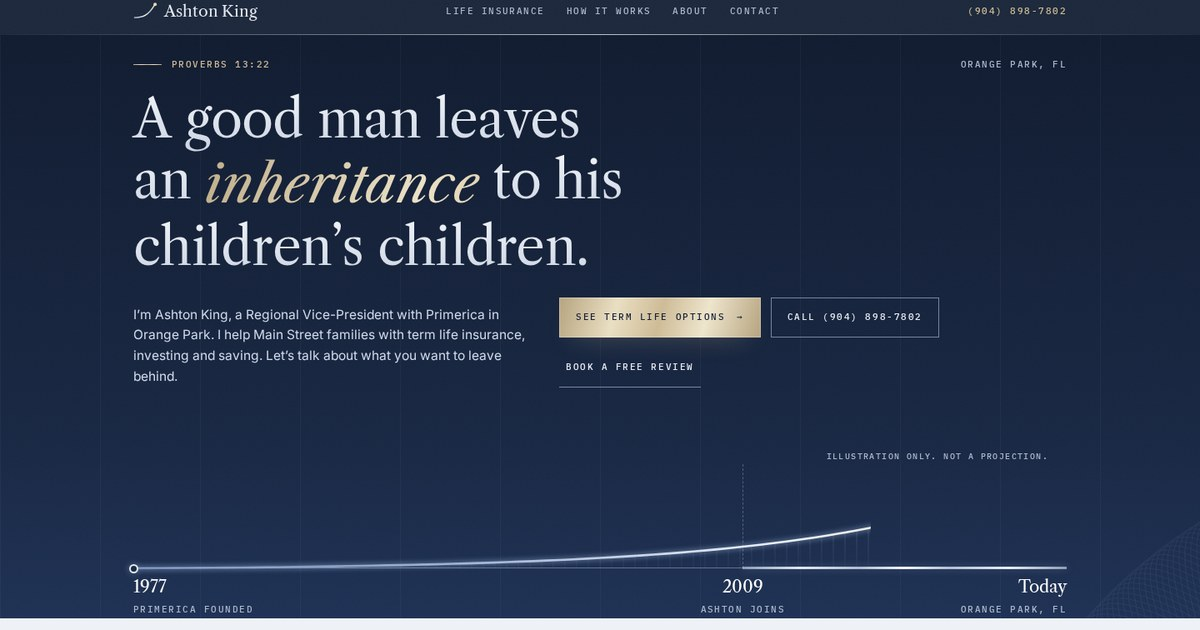
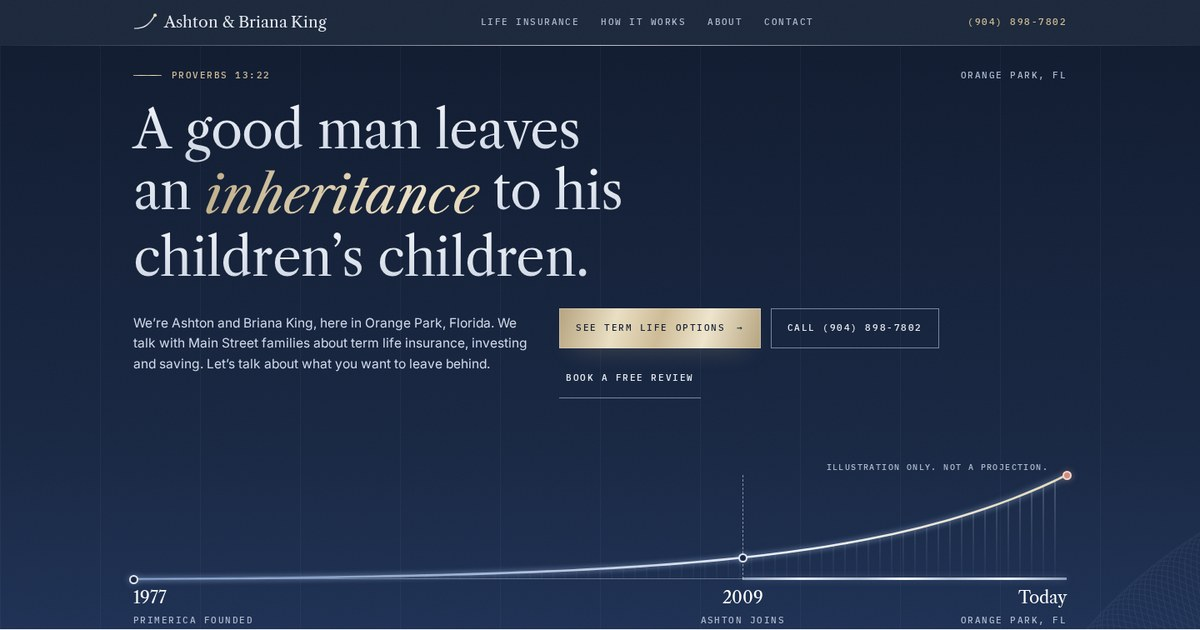
Ashton King mockup v7: Ashton and Briana King, shared voice, photo gutter, Real-ESRGAN cleanup

diff --git a/index.html b/index.html
@@ -6,26 +6,26 @@
 <meta name="theme-color" content="#111B2E">
 <meta name="color-scheme" content="dark light">
 <meta name="format-detection" content="telephone=no">
-<title>Ashton King | Primerica Regional Vice-President | Orange Park, FL (design mockup)</title>
-<meta name="description" content="Design mockup of a rep page for Ashton King, Primerica Regional Vice-President in Orange Park, Florida, opening with Proverbs 13:22. Made by Deuce Digital.">
+<title>Ashton &amp; Briana King | Primerica in Orange Park, FL (design mockup)</title>
+<meta name="description" content="Design mockup of a site for Ashton and Briana King in Orange Park, Florida. Ashton is a Primerica Regional Vice-President. Opens with Proverbs 13:22. Made by Deuce Digital.">
 <meta name="robots" content="noindex">
 <meta property="og:type" content="website">
-<meta property="og:title" content="Ashton King | Primerica Regional Vice-President | Orange Park, FL (design mockup)">
-<meta property="og:description" content="Design mockup of a rep page for Ashton King, Primerica Regional Vice-President in Orange Park, Florida. Made by Deuce Digital. Not an official Primerica page.">
+<meta property="og:title" content="Ashton &amp; Briana King | Primerica in Orange Park, FL (design mockup)">
+<meta property="og:description" content="Design mockup of a site for Ashton and Briana King in Orange Park, Florida. Made by Deuce Digital. Not an official Primerica page.">
 <meta property="og:url" content="https://pythondeuce.github.io/ashton-king-mockup/">
-<meta property="og:image" content="https://pythondeuce.github.io/ashton-king-mockup/og.jpg?v=6.1">
+<meta property="og:image" content="https://pythondeuce.github.io/ashton-king-mockup/og.jpg?v=7.0">
 <meta property="og:image:width" content="1200">
 <meta property="og:image:height" content="630">
-<meta property="og:image:alt" content="Ashton King design mockup: A good man leaves an inheritance to his children's children.">
+<meta property="og:image:alt" content="Ashton and Briana King design mockup: A good man leaves an inheritance to his children's children.">
 <meta name="twitter:card" content="summary_large_image">
-<link rel="icon" href="favicon.svg?v=6.1" type="image/svg+xml">
+<link rel="icon" href="favicon.svg?v=7.0" type="image/svg+xml">
 <script>document.documentElement.className+=' js'</script>
 <noscript><style>.rv,.w>span,.hr,.pt,.lead,.gd,.mk-t,.hd .nav,.hd .tel{opacity:1!important;transform:none!important;clip-path:none!important}.sweep{clip-path:none!important}.wipe::before,.wipe::after{display:none!important}.mark path{stroke-dashoffset:0!important}</style></noscript>
 <link rel="preload" href="fonts/libre-caslon-text-latin-400-normal.woff2" as="font" type="font/woff2" crossorigin>
 <link rel="preload" href="fonts/libre-caslon-text-latin-400-italic.woff2" as="font" type="font/woff2" crossorigin>
 <link rel="preload" href="fonts/inter-latin-400-normal.woff2" as="font" type="font/woff2" crossorigin>
 <link rel="preload" href="fonts/ibm-plex-mono-latin-500-normal.woff2" as="font" type="font/woff2" crossorigin>
-<link rel="stylesheet" href="style.css?v=6.1">
+<link rel="stylesheet" href="style.css?v=7.0">
 </head>
 <body>
 <a class="skip" href="#top">Skip to main content</a>
@@ -47,7 +47,7 @@
 <div class="strip">Design mockup by Deuce Digital &middot; not a live Primerica page</div>
 
 <header class="hd"><div class="wrap hd-in">
-<a class="mark" href="#top" aria-label="Ashton King, top of page"><svg viewBox="0 0 30 20" aria-hidden="true"><path pathLength="1" d="M1 19 C12 19 20 17 29 1" fill="none" stroke="url(#gChrome)" stroke-width="1.8"/><circle cx="29" cy="1.5" r="2.2" fill="#E6DAB9"/></svg><span class="mk-t">Ashton King</span></a>
+<a class="mark" href="#top" aria-label="Ashton and Briana King, top of page"><svg viewBox="0 0 30 20" aria-hidden="true"><path pathLength="1" d="M1 19 C12 19 20 17 29 1" fill="none" stroke="url(#gChrome)" stroke-width="1.8"/><circle cx="29" cy="1.5" r="2.2" fill="#E6DAB9"/></svg><span class="mk-t">Ashton &amp; Briana King</span></a>
 <nav class="nav mono" aria-label="Sections"><a href="#termlife">Life insurance</a><a href="#method">How it works</a><a href="#about">About</a><a href="#contact">Contact</a></nav>
 <a class="tel mono" href="tel:+19048987802">(904) 898-7802</a>
 </div><div class="prog" aria-hidden="true"><i></i><b></b></div></header>
@@ -61,7 +61,7 @@
 <div class="hero-main">
 <h1 class="display" data-split>A good man leaves an <em>inheritance</em> to his children&rsquo;s children.</h1>
 <div class="hero-row">
-<p class="rv" style="--d:700ms">I&rsquo;m Ashton King, a Regional Vice-President with Primerica in Orange Park. I help Main Street families with term life insurance, investing and saving. Let&rsquo;s talk about what you want to leave behind.</p>
+<p class="rv" style="--d:700ms">We&rsquo;re Ashton and Briana King, here in Orange Park, Florida. We talk with Main Street families about term life insurance, investing and saving. Let&rsquo;s talk about what you want to leave behind.</p>
 <div class="cta-row rv" style="--d:850ms"><a class="cta" href="#termlife"><span>See term life options</span> <b aria-hidden="true">&rarr;</b></a><a class="cta alt" href="tel:+19048987802"><span>Call (904) 898-7802</span></a><a class="cta txt" href="#contact" data-topic="Term Life Insurance"><span>Book a free review</span></a></div>
 </div>
 </div>
@@ -95,7 +95,7 @@
 <div class="term-copy">
 <h2 class="display h2" data-split>Term life <em>insurance.</em></h2>
 <p class="lede rv">Term only. Primerica has offered term life from the start, on the idea of &ldquo;Buy Term and Invest the Difference.&rdquo;</p>
-<div class="avail rv"><b class="mono">Is term life available in my state?</b><p><strong>Florida and Louisiana only</strong>, per Ashton&rsquo;s Primerica page. Not available in all states/provinces.</p></div>
+<div class="avail rv"><b class="mono">Is term life available in our state?</b><p><strong>Florida and Louisiana only</strong>, per Ashton&rsquo;s Primerica page. Not available in all states/provinces.</p></div>
 <div class="sec-cta rv"><a class="cta" href="#contact" data-topic="Term Life Insurance"><span>Book a free review</span> <b aria-hidden="true">&rarr;</b></a></div>
 </div>
 <div class="map-col rv" style="--d:200ms">
@@ -122,7 +122,7 @@
 <div class="steps" id="steps">
 <div class="rail" aria-hidden="true"><i></i></div>
 <svg class="mcurve" viewBox="0 0 1000 780" preserveAspectRatio="none" aria-hidden="true"><g class="sweep"><g class="h"><line x1="12.5" x2="12.5" y1="778.8" y2="780"/><line x1="25" x2="25" y1="777.6" y2="780"/><line x1="37.5" x2="37.5" y1="776.3" y2="780"/><line x1="50" x2="50" y1="775.0" y2="780"/><line x1="62.5" x2="62.5" y1="773.6" y2="780"/><line x1="75" x2="75" y1="772.2" y2="780"/><line x1="87.5" x2="87.5" y1="770.7" y2="780"/><line x1="100" x2="100" y1="769.1" y2="780"/><line x1="112.5" x2="112.5" y1="767.5" y2="780"/><line x1="125" x2="125" y1="765.7" y2="780"/><line x1="137.5" x2="137.5" y1="763.9" y2="780"/><line x1="150" x2="150" y1="762.1" y2="780"/><line x1="162.5" x2="162.5" y1="760.1" y2="780"/><line x1="175" x2="175" y1="758.1" y2="780"/><line x1="187.5" x2="187.5" y1="756.0" y2="780"/><line x1="200" x2="200" y1="753.8" y2="780"/><line x1="212.5" x2="212.5" y1="751.5" y2="780"/><line x1="225" x2="225" y1="749.1" y2="780"/><line x1="237.5" x2="237.5" y1="746.5" y2="780"/><line x1="250" x2="250" y1="743.9" y2="780"/><line x1="262.5" x2="262.5" y1="741.2" y2="780"/><line x1="275" x2="275" y1="738.3" y2="780"/><line x1="287.5" x2="287.5" y1="735.4" y2="780"/><line x1="300" x2="300" y1="732.2" y2="780"/><line x1="312.5" x2="312.5" y1="729.0" y2="780"/><line x1="325" x2="325" y1="725.6" y2="780"/><line x1="337.5" x2="337.5" y1="722.1" y2="780"/><line x1="350" x2="350" y1="718.4" y2="780"/><line x1="362.5" x2="362.5" y1="714.6" y2="780"/><line x1="375" x2="375" y1="710.6" y2="780"/><line x1="387.5" x2="387.5" y1="706.4" y2="780"/><line x1="400" x2="400" y1="702.0" y2="780"/><line x1="412.5" x2="412.5" y1="697.5" y2="780"/><line x1="425" x2="425" y1="692.7" y2="780"/><line x1="437.5" x2="437.5" y1="687.7" y2="780"/><line x1="450" x2="450" y1="682.6" y2="780"/><line x1="462.5" x2="462.5" y1="677.2" y2="780"/><line x1="475" x2="475" y1="671.5" y2="780"/><line x1="487.5" x2="487.5" y1="665.7" y2="780"/><line x1="500" x2="500" y1="659.5" y2="780"/><line x1="512.5" x2="512.5" y1="653.1" y2="780"/><line x1="525" x2="525" y1="646.4" y2="780"/><line x1="537.5" x2="537.5" y1="639.5" y2="780"/><line x1="550" x2="550" y1="632.2" y2="780"/><line x1="562.5" x2="562.5" y1="624.6" y2="780"/><line x1="575" x2="575" y1="616.7" y2="780"/><line x1="587.5" x2="587.5" y1="608.4" y2="780"/><line x1="600" x2="600" y1="599.8" y2="780"/><line x1="612.5" x2="612.5" y1="590.8" y2="780"/><line x1="625" x2="625" y1="581.4" y2="780"/><line x1="637.5" x2="637.5" y1="571.7" y2="780"/><line x1="650" x2="650" y1="561.4" y2="780"/><line x1="662.5" x2="662.5" y1="550.8" y2="780"/><line x1="675" x2="675" y1="539.7" y2="780"/><line x1="687.5" x2="687.5" y1="528.1" y2="780"/><line x1="700" x2="700" y1="516.0" y2="780"/><line x1="712.5" x2="712.5" y1="503.3" y2="780"/><line x1="725" x2="725" y1="490.1" y2="780"/><line x1="737.5" x2="737.5" y1="476.4" y2="780"/><line x1="750" x2="750" y1="462.0" y2="780"/><line x1="762.5" x2="762.5" y1="447.1" y2="780"/><line x1="775" x2="775" y1="431.4" y2="780"/><line x1="787.5" x2="787.5" y1="415.1" y2="780"/><line x1="800" x2="800" y1="398.1" y2="780"/><line x1="812.5" x2="812.5" y1="380.4" y2="780"/><line x1="825" x2="825" y1="361.9" y2="780"/><line x1="837.5" x2="837.5" y1="342.5" y2="780"/><line x1="850" x2="850" y1="322.4" y2="780"/><line x1="862.5" x2="862.5" y1="301.3" y2="780"/><line x1="875" x2="875" y1="279.4" y2="780"/><line x1="887.5" x2="887.5" y1="256.5" y2="780"/><line x1="900" x2="900" y1="232.6" y2="780"/><line x1="912.5" x2="912.5" y1="207.6" y2="780"/><line x1="925" x2="925" y1="181.6" y2="780"/><line x1="937.5" x2="937.5" y1="154.5" y2="780"/><line x1="950" x2="950" y1="126.2" y2="780"/><line x1="962.5" x2="962.5" y1="96.6" y2="780"/><line x1="975" x2="975" y1="65.8" y2="780"/><line x1="987.5" x2="987.5" y1="33.6" y2="780"/></g><path class="glow" d="M0.0 780.0 L14.3 778.7 L28.6 777.3 L42.9 775.8 L57.1 774.2 L71.4 772.6 L85.7 770.9 L100.0 769.1 L114.3 767.2 L128.6 765.2 L142.9 763.2 L157.1 761.0 L171.4 758.7 L185.7 756.3 L200.0 753.8 L214.3 751.1 L228.6 748.4 L242.9 745.4 L257.1 742.4 L271.4 739.2 L285.7 735.8 L300.0 732.2 L314.3 728.5 L328.6 724.6 L342.9 720.5 L357.1 716.2 L371.4 711.7 L385.7 707.0 L400.0 702.0 L414.3 696.8 L428.6 691.3 L442.9 685.5 L457.1 679.5 L471.4 673.2 L485.7 666.5 L500.0 659.5 L514.3 652.2 L528.6 644.5 L542.9 636.4 L557.1 627.9 L571.4 619.0 L585.7 609.6 L600.0 599.8 L614.3 589.5 L628.6 578.7 L642.9 567.3 L657.1 555.4 L671.4 542.9 L685.7 529.8 L700.0 516.0 L714.3 501.5 L728.6 486.3 L742.9 470.3 L757.1 453.6 L771.4 436.0 L785.7 417.5 L800.0 398.1 L814.3 377.8 L828.6 356.4 L842.9 334.0 L857.1 310.5 L871.4 285.8 L885.7 259.8 L900.0 232.6 L914.3 204.0 L928.6 174.0 L942.9 142.5 L957.1 109.4 L971.4 74.7 L985.7 38.3 L1000.0 0.0"/><path class="c" id="mpath" d="M0.0 780.0 L14.3 778.7 L28.6 777.3 L42.9 775.8 L57.1 774.2 L71.4 772.6 L85.7 770.9 L100.0 769.1 L114.3 767.2 L128.6 765.2 L142.9 763.2 L157.1 761.0 L171.4 758.7 L185.7 756.3 L200.0 753.8 L214.3 751.1 L228.6 748.4 L242.9 745.4 L257.1 742.4 L271.4 739.2 L285.7 735.8 L300.0 732.2 L314.3 728.5 L328.6 724.6 L342.9 720.5 L357.1 716.2 L371.4 711.7 L385.7 707.0 L400.0 702.0 L414.3 696.8 L428.6 691.3 L442.9 685.5 L457.1 679.5 L471.4 673.2 L485.7 666.5 L500.0 659.5 L514.3 652.2 L528.6 644.5 L542.9 636.4 L557.1 627.9 L571.4 619.0 L585.7 609.6 L600.0 599.8 L614.3 589.5 L628.6 578.7 L642.9 567.3 L657.1 555.4 L671.4 542.9 L685.7 529.8 L700.0 516.0 L714.3 501.5 L728.6 486.3 L742.9 470.3 L757.1 453.6 L771.4 436.0 L785.7 417.5 L800.0 398.1 L814.3 377.8 L828.6 356.4 L842.9 334.0 L857.1 310.5 L871.4 285.8 L885.7 259.8 L900.0 232.6 L914.3 204.0 L928.6 174.0 L942.9 142.5 L957.1 109.4 L971.4 74.7 L985.7 38.3 L1000.0 0.0"/></g><g class="shine"><path class="sheen" mask="url(#sheenMask)" d="M0.0 780.0 L14.3 778.7 L28.6 777.3 L42.9 775.8 L57.1 774.2 L71.4 772.6 L85.7 770.9 L100.0 769.1 L114.3 767.2 L128.6 765.2 L142.9 763.2 L157.1 761.0 L171.4 758.7 L185.7 756.3 L200.0 753.8 L214.3 751.1 L228.6 748.4 L242.9 745.4 L257.1 742.4 L271.4 739.2 L285.7 735.8 L300.0 732.2 L314.3 728.5 L328.6 724.6 L342.9 720.5 L357.1 716.2 L371.4 711.7 L385.7 707.0 L400.0 702.0 L414.3 696.8 L428.6 691.3 L442.9 685.5 L457.1 679.5 L471.4 673.2 L485.7 666.5 L500.0 659.5 L514.3 652.2 L528.6 644.5 L542.9 636.4 L557.1 627.9 L571.4 619.0 L585.7 609.6 L600.0 599.8 L614.3 589.5 L628.6 578.7 L642.9 567.3 L657.1 555.4 L671.4 542.9 L685.7 529.8 L700.0 516.0 L714.3 501.5 L728.6 486.3 L742.9 470.3 L757.1 453.6 L771.4 436.0 L785.7 417.5 L800.0 398.1 L814.3 377.8 L828.6 356.4 L842.9 334.0 L857.1 310.5 L871.4 285.8 L885.7 259.8 L900.0 232.6 L914.3 204.0 L928.6 174.0 L942.9 142.5 L957.1 109.4 L971.4 74.7 L985.7 38.3 L1000.0 0.0"/></g></svg>
-<div class="step rv" style="--x:27;--y:5.2"><i class="pt"></i><span class="num">1</span><h3>Say hello</h3><p>Call the office or send the form.</p></div>
+<div class="step rv" style="--x:27;--y:5.2"><i class="pt"></i><span class="num">1</span><h3>Say hello</h3><p>Call our office or send us the form.</p></div>
 <div class="step rv" style="--x:56;--y:19.7"><i class="pt"></i><span class="num">2</span><h3>We talk it through</h3><p>Where you are today and what you want later.</p></div>
 <div class="step rv" style="--x:85;--y:58.7"><i class="pt"></i><span class="num">3</span><h3>You decide</h3><p>No rush. If it makes sense, we take the next step together.</p></div>
 </div>
@@ -133,12 +133,12 @@
 
 <section class="more wipe scene" id="more" data-reveal>
 <div class="wrap">
-<div class="eyebrow mono"><svg class="mini" viewBox="0 0 64 22" aria-hidden="true"><path class="g" d="M0 21H64"/><path class="c" d="M4.0 19.0 L6.3 18.9 L8.7 18.7 L11.0 18.6 L13.3 18.4 L15.7 18.2 L18.0 17.9 L20.3 17.7 L22.7 17.4 L25.0 17.0 L27.3 16.7 L29.7 16.2 L32.0 15.7 L34.3 15.2 L36.7 14.5 L39.0 13.8 L41.3 13.0 L43.7 12.0 L46.0 11.0 L48.3 9.8 L50.7 8.5 L53.0 6.9 L55.3 5.2 L57.7 3.2 L60.0 1.0 "/><circle cx="32.0" cy="15.7" r="2.6"/></svg> Other ways I can help</div>
+<div class="eyebrow mono"><svg class="mini" viewBox="0 0 64 22" aria-hidden="true"><path class="g" d="M0 21H64"/><path class="c" d="M4.0 19.0 L6.3 18.9 L8.7 18.7 L11.0 18.6 L13.3 18.4 L15.7 18.2 L18.0 17.9 L20.3 17.7 L22.7 17.4 L25.0 17.0 L27.3 16.7 L29.7 16.2 L32.0 15.7 L34.3 15.2 L36.7 14.5 L39.0 13.8 L41.3 13.0 L43.7 12.0 L46.0 11.0 L48.3 9.8 L50.7 8.5 L53.0 6.9 L55.3 5.2 L57.7 3.2 L60.0 1.0 "/><circle cx="32.0" cy="15.7" r="2.6"/></svg> Other ways we can help</div>
 <h2 class="display h3x" data-split>Also <em>available.</em></h2>
 <div class="cards">
 <a class="card rv" href="#contact" data-topic="Investments &amp; Savings"><h3>Investments &amp; Savings</h3><p>Putting money to work for what&rsquo;s ahead.</p><p class="small">In the U.S., securities are offered exclusively through PFS Investments Inc. Offered in FL, LA, NV, SC and TX.</p><span class="go mono">Ask about this <b aria-hidden="true">&rarr;</b></span></a>
-<a class="card rv" style="--d:100ms" href="#contact" data-topic="Auto &amp; Homeowners referral"><h3>Auto &amp; Homeowners Insurance</h3><p>Through Primerica&rsquo;s referral program. Ask me how it works.</p><span class="go mono">Ask about this <b aria-hidden="true">&rarr;</b></span></a>
-<a class="card rv" style="--d:200ms" href="#contact" data-topic="The Primerica Business Opportunity"><h3>The Primerica Business Opportunity</h3><p>Curious about the business side of what I do? Ask me.</p><span class="go mono">Ask about this <b aria-hidden="true">&rarr;</b></span></a>
+<a class="card rv" style="--d:100ms" href="#contact" data-topic="Auto &amp; Homeowners referral"><h3>Auto &amp; Homeowners Insurance</h3><p>Through Primerica&rsquo;s referral program. Ask us how it works.</p><span class="go mono">Ask about this <b aria-hidden="true">&rarr;</b></span></a>
+<a class="card rv" style="--d:200ms" href="#contact" data-topic="The Primerica Business Opportunity"><h3>The Primerica Business Opportunity</h3><p>Curious about the business side of what we do? Ask us.</p><span class="go mono">Ask about this <b aria-hidden="true">&rarr;</b></span></a>
 </div>
 <p class="foot-note mono">Not available in all states/provinces.</p>
 <a class="lessons-link rv" href="https://www.primerica.com/public/PrimericaRep?rep=ashtonking" target="_blank" rel="noopener noreferrer"><span>Prefer to learn first? Six short HOW MONEY WORKS&trade; lessons are on Primerica&rsquo;s page.</span> <b aria-hidden="true">&rarr;</b><span class="sr"> (opens in a new tab)</span></a>
@@ -149,16 +149,17 @@
 <div class="wrap">
 <div class="eyebrow mono"><svg class="mini" viewBox="0 0 64 22" aria-hidden="true"><path class="g" d="M0 21H64"/><path class="c" d="M4.0 19.0 L6.3 18.9 L8.7 18.7 L11.0 18.6 L13.3 18.4 L15.7 18.2 L18.0 17.9 L20.3 17.7 L22.7 17.4 L25.0 17.0 L27.3 16.7 L29.7 16.2 L32.0 15.7 L34.3 15.2 L36.7 14.5 L39.0 13.8 L41.3 13.0 L43.7 12.0 L46.0 11.0 L48.3 9.8 L50.7 8.5 L53.0 6.9 L55.3 5.2 L57.7 3.2 L60.0 1.0 "/><circle cx="46.0" cy="11.0" r="2.6"/></svg> About</div>
 <div class="about-grid">
-<div class="about-fig rv"><div class="since" role="img" aria-label="2009"><span class="count" data-from="1977" data-to="2009" aria-hidden="true">2009</span></div><p class="mono since-l">Joined Primerica</p><figure class="fig"><div class="mat"><div class="duo"><img src="team-400.jpg?v=6.1" srcset="team-400.jpg?v=6.1 400w, team@2x.jpg?v=6.1 800w" sizes="(min-width:900px) 32vw, calc(100vw - 40px)" width="800" height="600" decoding="async" alt="Photo of two smiling people, from Ashton King&rsquo;s Primerica page"></div></div><figcaption class="mono"><span>From Ashton&rsquo;s Primerica page</span></figcaption></figure></div>
+<div class="about-fig rv"><div class="since" role="img" aria-label="2009"><span class="count" data-from="1977" data-to="2009" aria-hidden="true">2009</span></div><p class="mono since-l">Ashton joined Primerica</p><figure class="fig"><div class="mat"><div class="duo"><img src="team-400.jpg?v=7.0" srcset="team-400.jpg?v=7.0 400w, team@2x.jpg?v=7.0 800w" sizes="(min-width:900px) 32vw, calc(100vw - 40px)" width="800" height="600" decoding="async" alt="Ashton and Briana King smiling together"></div></div><figcaption class="mono"><span>Ashton and Briana King</span></figcaption></figure></div>
 <div class="about-copy">
-<h2 class="display" data-split>Ashton L. <em>King</em></h2>
-<p class="lede rv">Regional Vice-President with Primerica in Orange Park, Florida. I&rsquo;m a life insurance representative and a registered representative with PFS Investments Inc.</p>
+<h2 class="display" data-split>Ashton &amp; Briana <em>King</em></h2>
+<p class="lede rv">We&rsquo;re Ashton and Briana King, and Orange Park, Florida is home base. We sit down with families, talk through what matters to them and take it one step at a time. Ashton is a Regional Vice-President with Primerica, a life insurance representative and a registered representative with PFS Investments Inc.</p>
+<p class="facts-t mono rv">About Ashton</p>
 <dl class="facts rv">
 <div><dt class="mono">Title</dt><dd>Regional Vice-President</dd></div>
 <div><dt class="mono">Securities</dt><dd>Registered Representative, PFS Investments Inc.</dd></div>
 <div><dt class="mono">Insurance</dt><dd>Life Insurance Representative (US)</dd></div>
 </dl>
-<a class="link mono rv" href="https://brokercheck.finra.org/" target="_blank" rel="noopener noreferrer">Check my background on FINRA BrokerCheck &rarr;<span class="sr"> (opens in a new tab)</span></a>
+<a class="link mono rv" href="https://brokercheck.finra.org/" target="_blank" rel="noopener noreferrer">Check Ashton&rsquo;s background on FINRA BrokerCheck &rarr;<span class="sr"> (opens in a new tab)</span></a>
 </div>
 </div>
 </div>
@@ -174,13 +175,14 @@
 <h2 class="display h2" data-split>Book a <em>free review.</em></h2>
 <a class="bigtel rv" href="tel:+19048987802">(904) 898-7802</a>
 <div class="addr rv">
-<p><b class="mono">Office</b>793 Blanding Blvd Ste D-2<br>Orange Park, FL 32065</p>
-<p><b class="mono">Phone</b>Mobile and office (904) 898-7802<br>Fax (904) 839-4328</p>
+<p><b class="mono">Our office</b>793 Blanding Blvd Ste D-2<br>Orange Park, FL 32065</p>
+<p><b class="mono">Call us</b>Mobile and office (904) 898-7802<br>Fax (904) 839-4328</p>
 <p><b class="mono">Email</b>Use the &ldquo;Email Us&rdquo; link on <a href="https://www.primerica.com/public/PrimericaRep?rep=ashtonking" target="_blank" rel="noopener noreferrer">Ashton&rsquo;s Primerica page<span class="sr"> (opens in a new tab)</span></a></p>
 </div>
 </div>
 <form class="form rv" id="demo" novalidate>
 <span class="demo mono">Demo form &middot; nothing is sent</span>
+<h3 class="ft">Talk with Ashton and Briana</h3>
 <label class="mono" for="nm">Your name<input id="nm" name="name" type="text" autocomplete="name" enterkeyhint="next" placeholder="First and last" required aria-describedby="nm-e"><span class="err mono" id="nm-e" hidden>Please enter your name.</span></label>
 <label class="mono" for="ph">Phone<input id="ph" name="phone" type="tel" inputmode="tel" autocomplete="tel" enterkeyhint="next" placeholder="(000) 000-0000" required aria-describedby="ph-e"><span class="err mono" id="ph-e" hidden>Please enter a 10-digit phone number.</span></label>
 <label class="mono" for="topic">What would you like to talk about?<select id="topic" name="topic"><option>Term Life Insurance</option><option>Investments &amp; Savings</option><option>Auto &amp; Homeowners referral</option><option>The Primerica Business Opportunity</option><option>Not sure yet</option></select></label>
@@ -193,7 +195,7 @@
 </main>
 
 <footer class="foot"><div class="wrap">
-<a class="mark" href="#top"><svg viewBox="0 0 30 20" aria-hidden="true"><path d="M1 19 C12 19 20 17 29 1" fill="none" stroke="url(#gChrome)" stroke-width="1.6"/><circle cx="29" cy="1.5" r="2" fill="#E6DAB9"/></svg>Ashton King</a>
+<a class="mark" href="#top"><svg viewBox="0 0 30 20" aria-hidden="true"><path d="M1 19 C12 19 20 17 29 1" fill="none" stroke="url(#gChrome)" stroke-width="1.6"/><circle cx="29" cy="1.5" r="2" fill="#E6DAB9"/></svg>Ashton &amp; Briana King</a>
 <div class="disc">
 <p>Note: This website is for informational purposes only and should not be construed as a solicitation to sell or an offer of any of Primerica's products or services. Primerica Representatives are independent contractors. Representatives are not licensed to sell all products in all states/provinces. Representatives may provide products and services only to individuals in those jurisdictions where they are licensed or approved. For more information, see Primerica's Important Disclosures.</p>
 <p>Life-licensed Primerica representatives are agents of certain affiliated Primerica Companies. In New York, term life insurance products are underwritten by National Benefit Life Insurance Company, Home Office: Long Island City, New York. In the United States (except in New York), term life insurance products are underwritten by Primerica Life Insurance Company, Executive Offices: Duluth, Georgia. In Canada, term life insurance products and Common Sense Funds segregated fund products are underwritten by Primerica Life Insurance Company of Canada, Head Office: Mississauga, Ontario. In the U.S., securities are offered exclusively by PFS Investments Inc. In Canada, mutual funds are offered exclusively by PFSL Investments Canada Ltd, mutual fund dealer. Representatives not licensed with these entities cannot sell to you, or discuss with you, any securities or investment products.</p>
@@ -215,6 +217,6 @@
 <p class="credit">Design mockup by Deuce Digital &middot; Not affiliated with or approved by Primerica</p>
 </div></footer>
 <nav class="dock" aria-label="Quick actions"><a class="d-call mono" href="tel:+19048987802">Call</a><a class="d-book mono" href="#contact">Book a free review</a></nav>
-<script src="app.js?v=6.1" defer></script>
+<script src="app.js?v=7.0" defer></script>
 </body>
 </html>

diff --git a/style.css b/style.css
@@ -409,3 +409,14 @@ img{height:auto}
 .flinks span{display:inline-flex;align-items:center;min-height:48px}
 .method-head{max-width:none;text-wrap:balance}
 @media(max-width:480px){.link{letter-spacing:.08em;font-size:.72rem}}
+
+/* v7 */
+.facts-t{color:var(--royal-d);margin:22px 0 8px;font-size:11px}
+.form .ft{font:400 22px/1.15 var(--serif);color:#fff;margin:2px 0 -2px;letter-spacing:-.005em}
+@media(max-width:380px){.mark{font-size:17px}}
+@media (min-width:900px){.about-fig{grid-column:1/6}.about-copy{grid-column:7/13}.about-grid{column-gap:20px}}
+
+.mark,.mk-t,.tel{white-space:nowrap}
+@media(max-width:480px){.mark{font-size:16px;gap:8px}.mark svg{width:22px;height:15px}.hd .tel{letter-spacing:.04em}}
+@media(max-width:899px){.fig{max-width:520px}}
+@media (min-width:900px){.hero-row{align-items:start}.hero-row p{padding-top:6px}}

diff --git a/README.md b/README.md
@@ -1,3 +1,3 @@
-# Ashton King mockup
+# Ashton and Briana King mockup
 
-A design mockup by Deuce Digital. This is not an official Primerica page and is not affiliated with or approved by Primerica. The contact form is a demo and sends nothing.
+A design mockup by Deuce Digital for Ashton and Briana King in Orange Park, Florida. This is not an official Primerica page and is not affiliated with or approved by Primerica. Licensing and registration details shown on the page apply to Ashton L. King only. The contact form is a demo and sends nothing.
